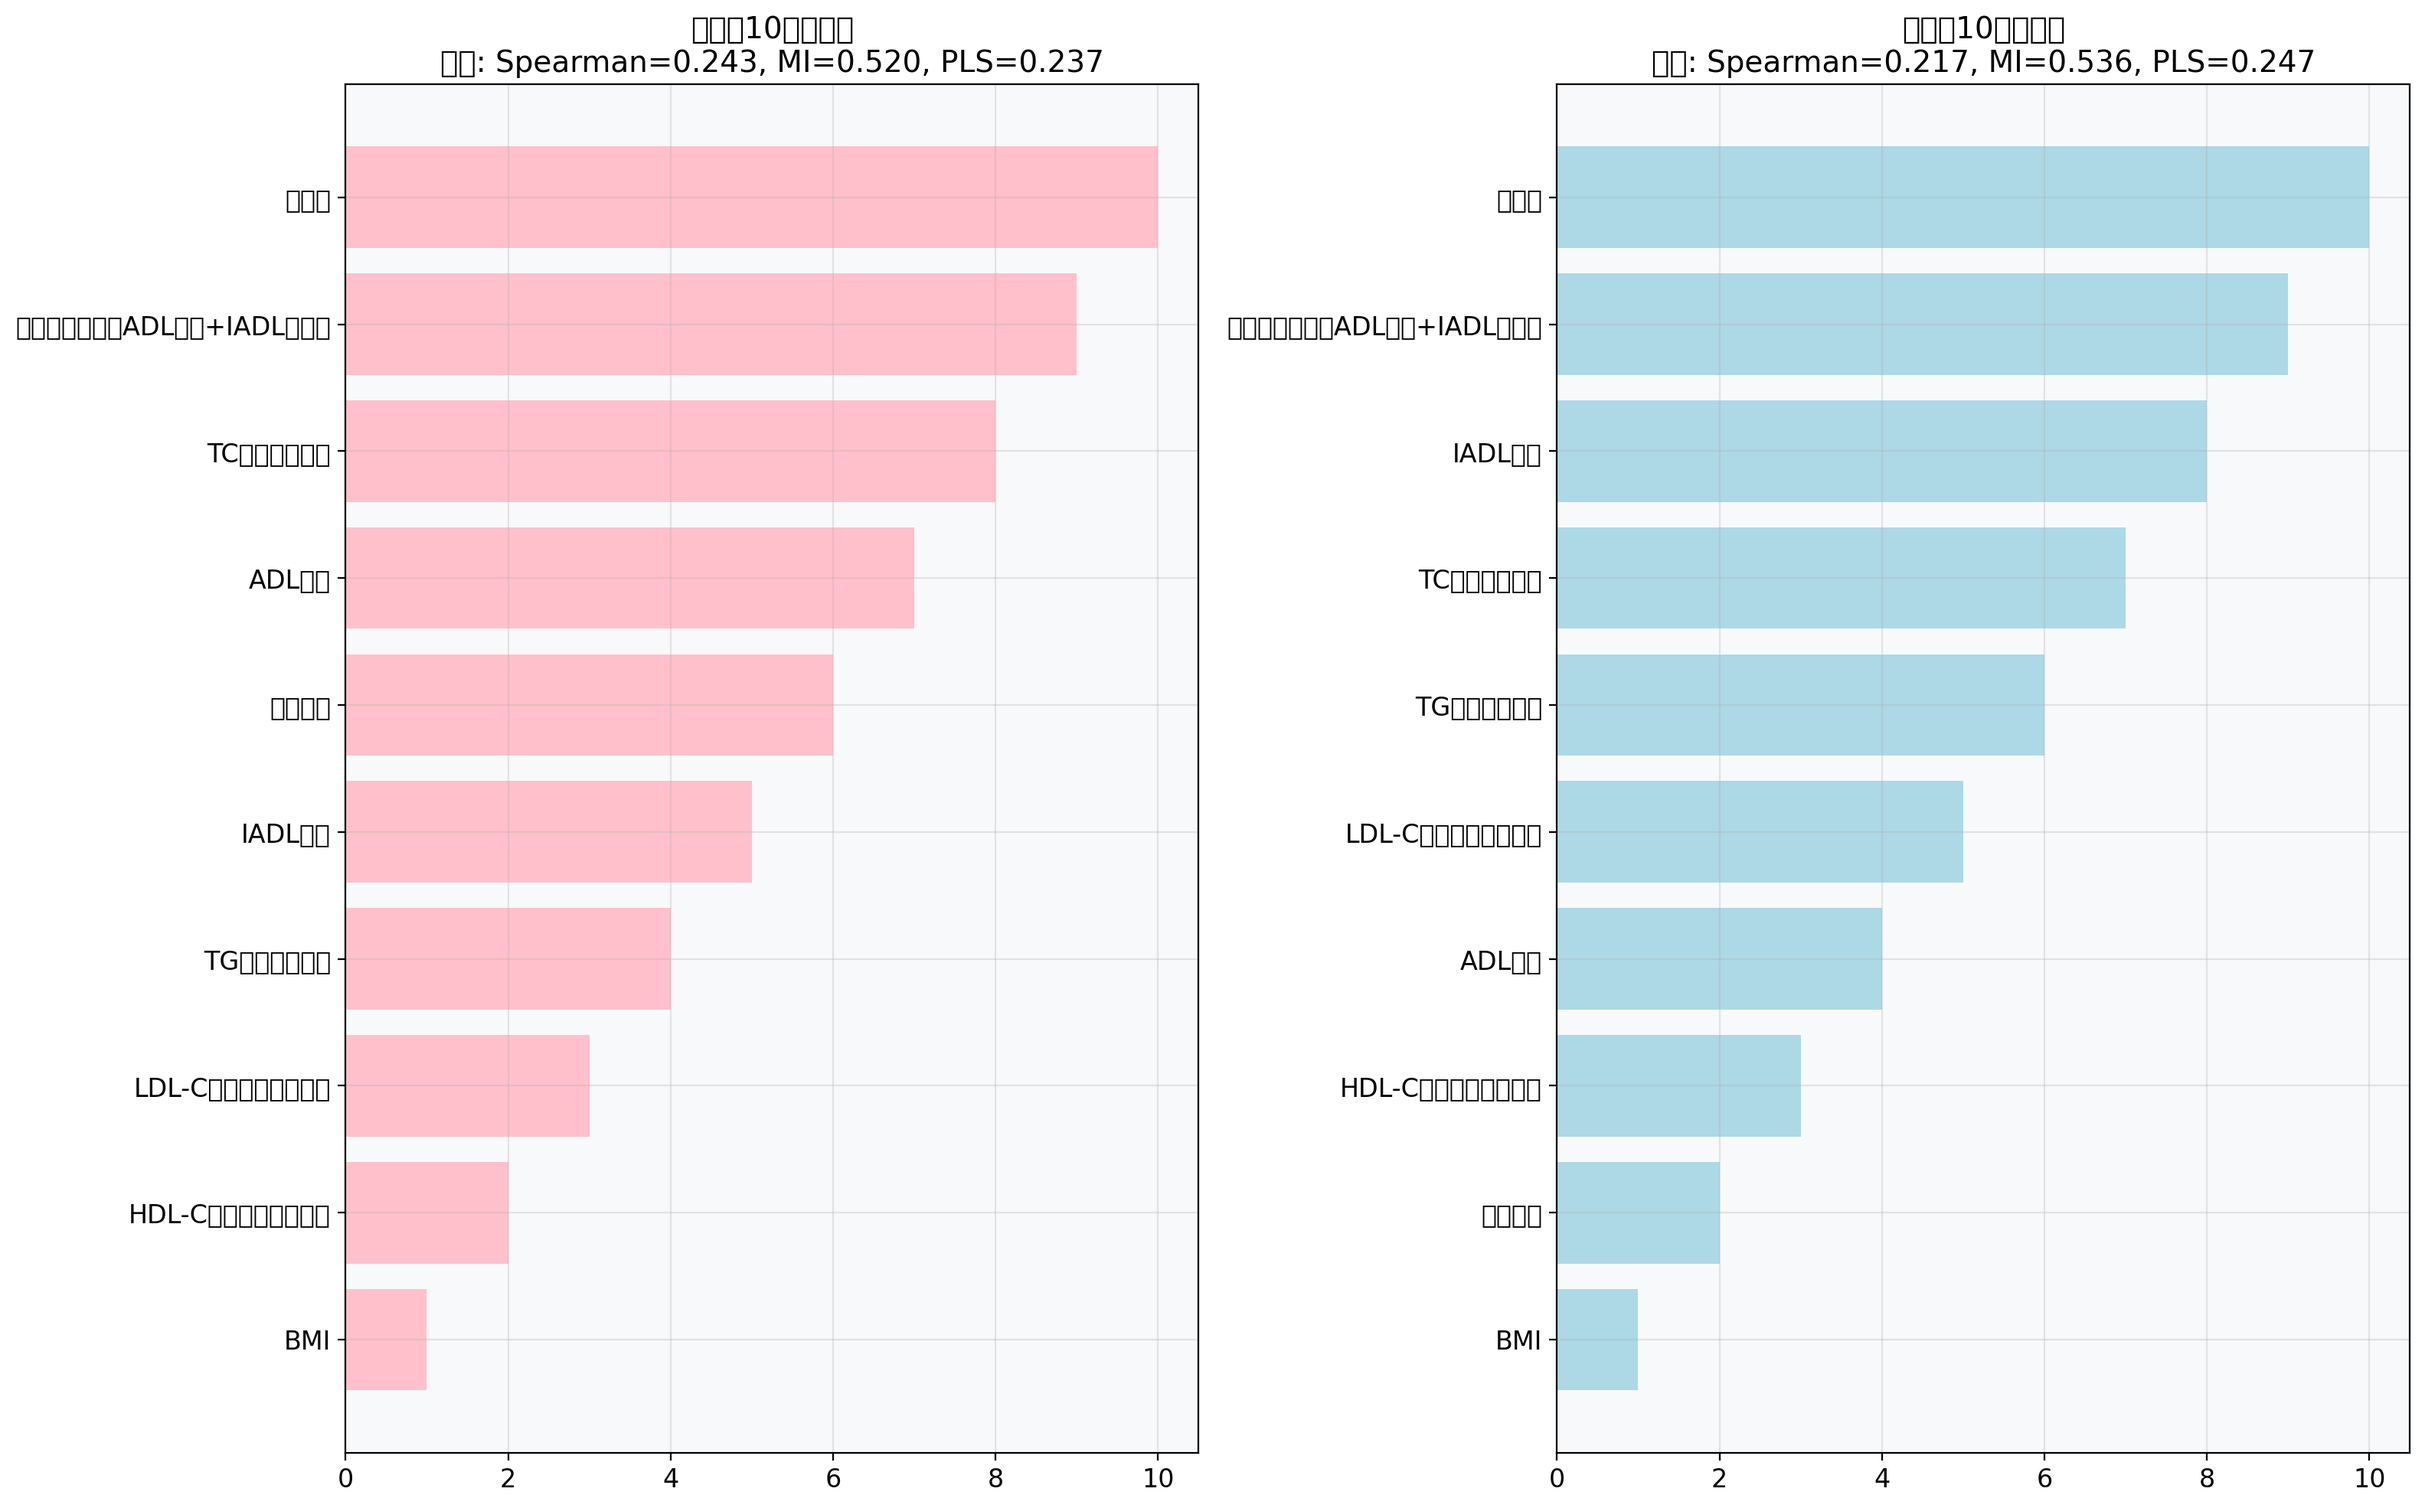
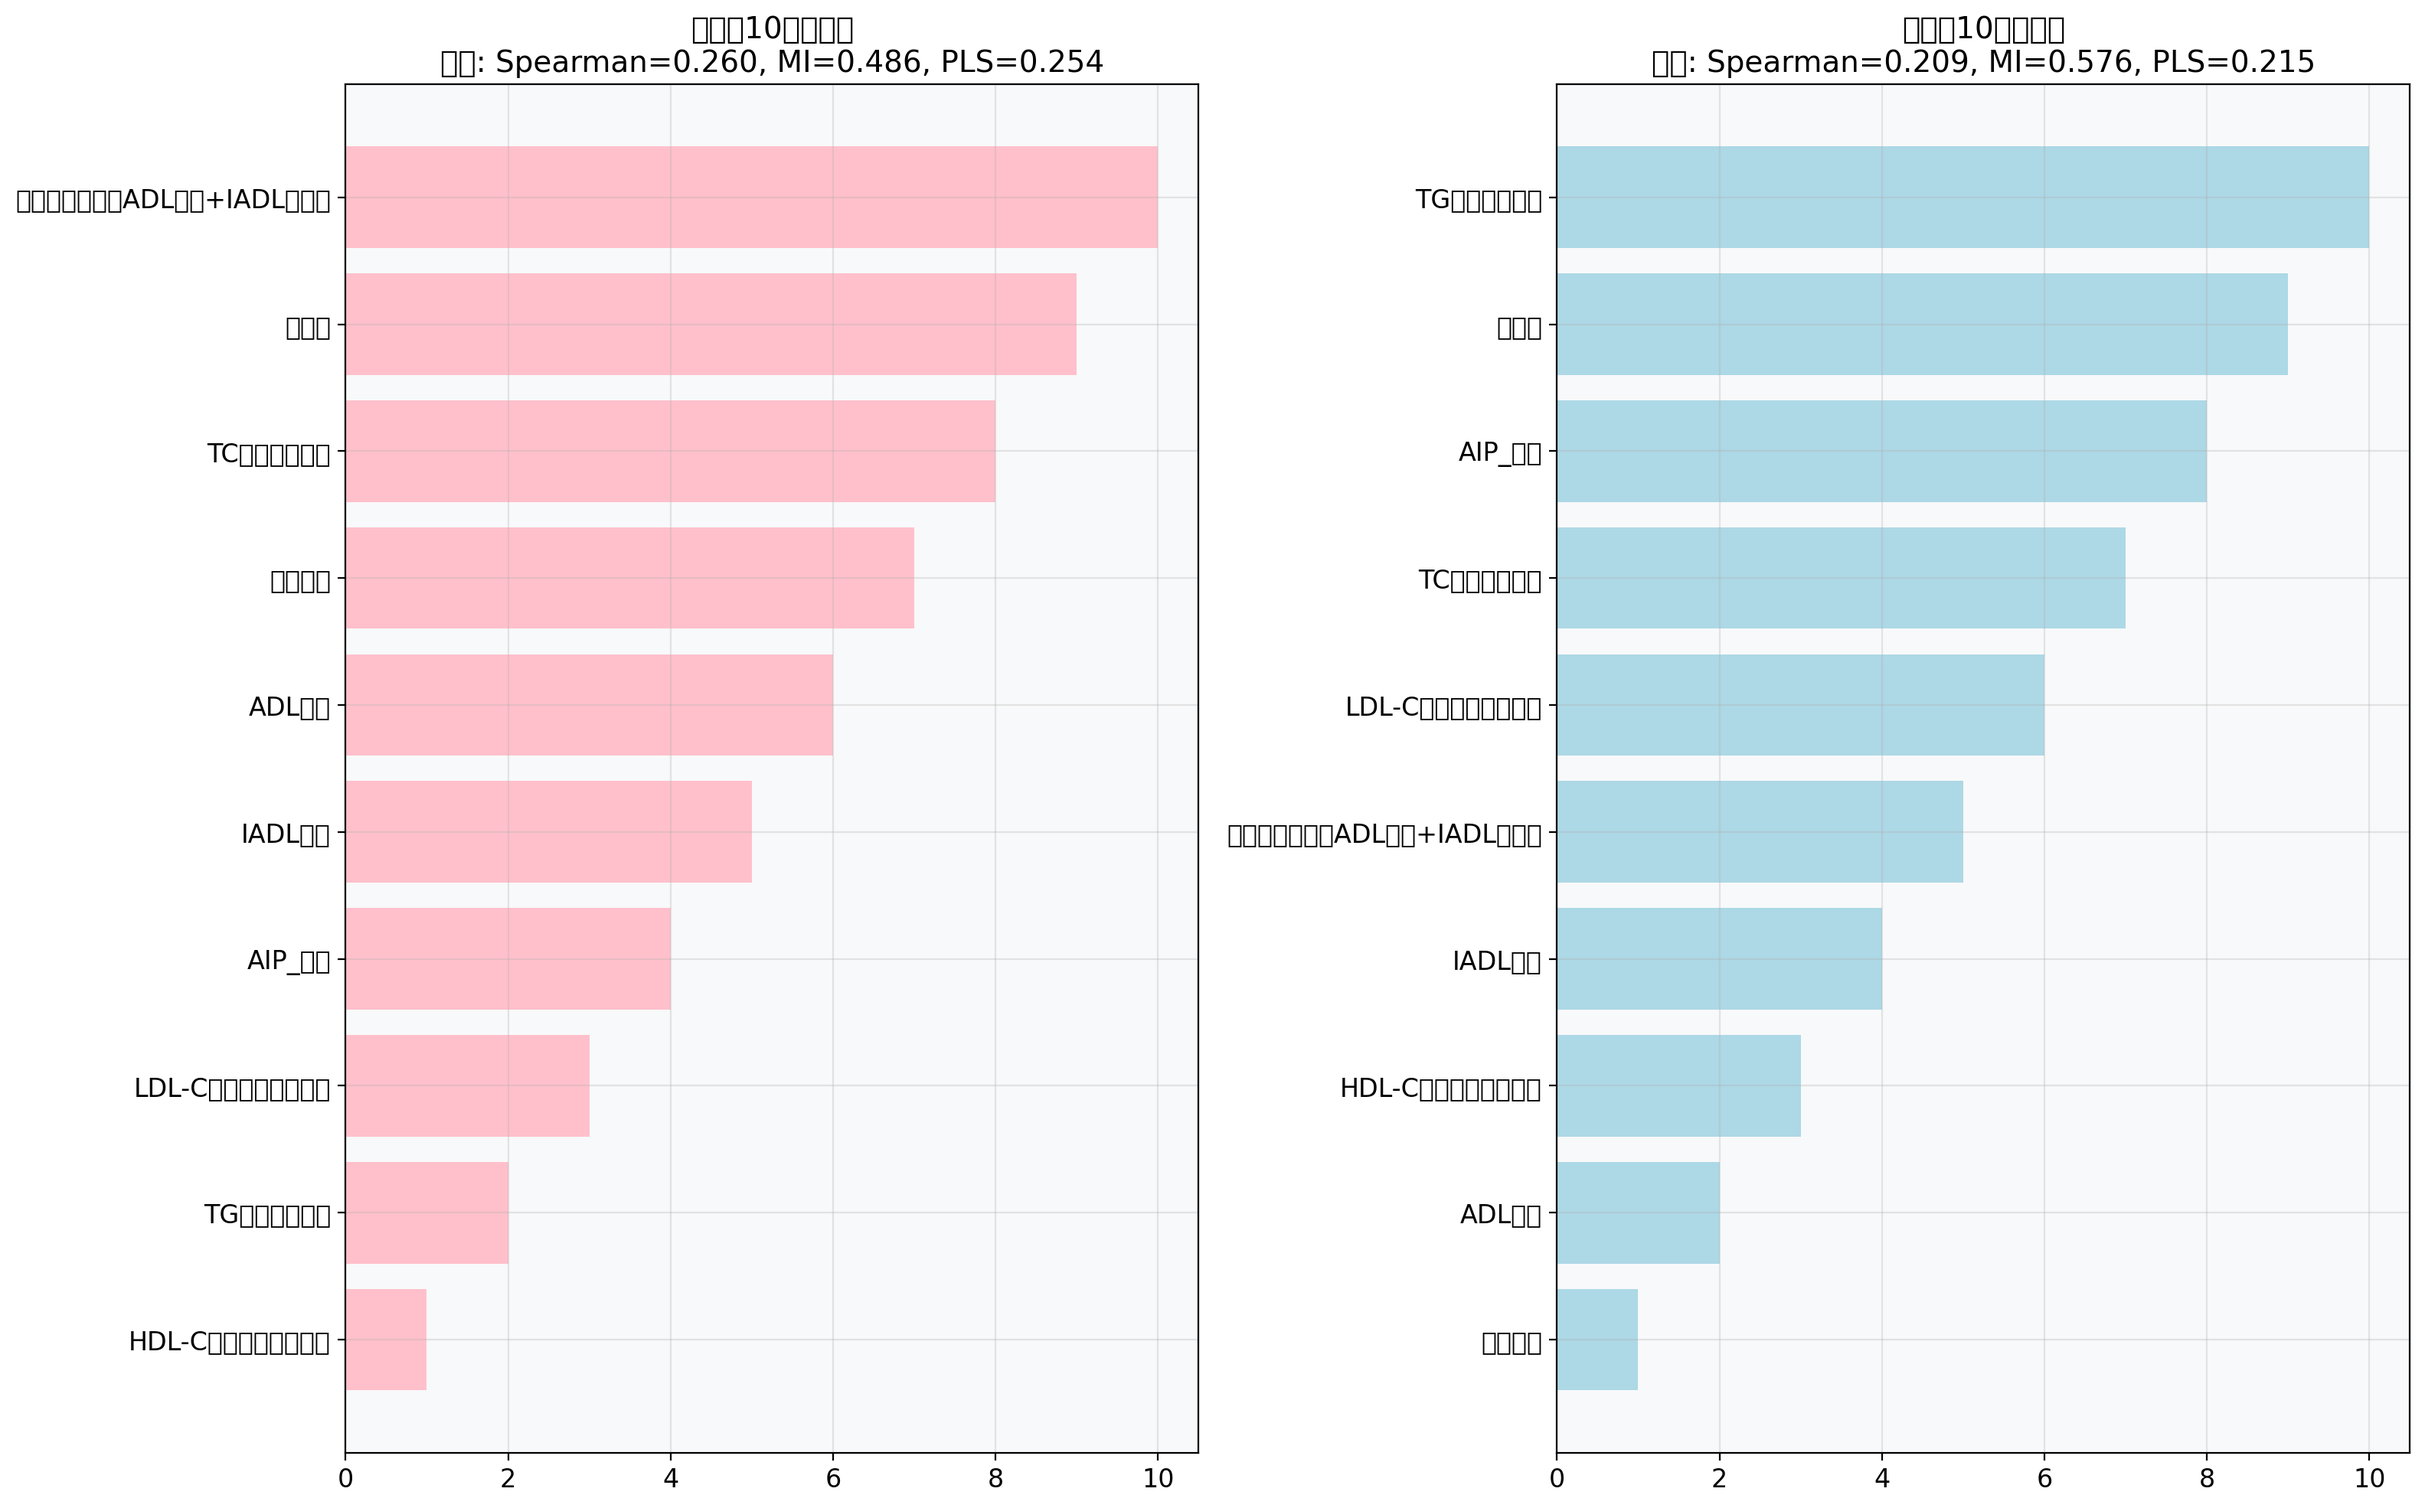
feat: 搭建项目架构

diff --git a/Project_mat/sensitivity_analysis_problem1.py b/Project_mat/sensitivity_analysis_problem1.py
@@ -29,7 +29,8 @@ class Problem1SensitivityAnalyzer:
     def __init__(self):
         self.data = None
         self.blood_indicators = ['TC（总胆固醇）', 'TG（甘油三酯）', 'LDL-C（低密度脂蛋白）', 
-                               'HDL-C（高密度脂蛋白）', '空腹血糖', '血尿酸', 'BMI']
+                               'HDL-C（高密度脂蛋白）', '空腹血糖', '血尿酸', 'BMI',
+                               'non-HDL-C——缩尾', 'AIP_缩尾', 'TC/HDL_缩尾', 'LDL/HDL_缩尾', 'TG/HDL_缩尾']
         self.activity_indicators = ['ADL总分', 'IADL总分', '活动量表总分（ADL总分+IADL总分）']
         self.constitution_types = ['平和质', '气虚质', '阳虚质', '阴虚质', '痰湿质', '湿热质', '血瘀质', '气郁质', '特禀质']
         self.target_phlegm = '痰湿质'
